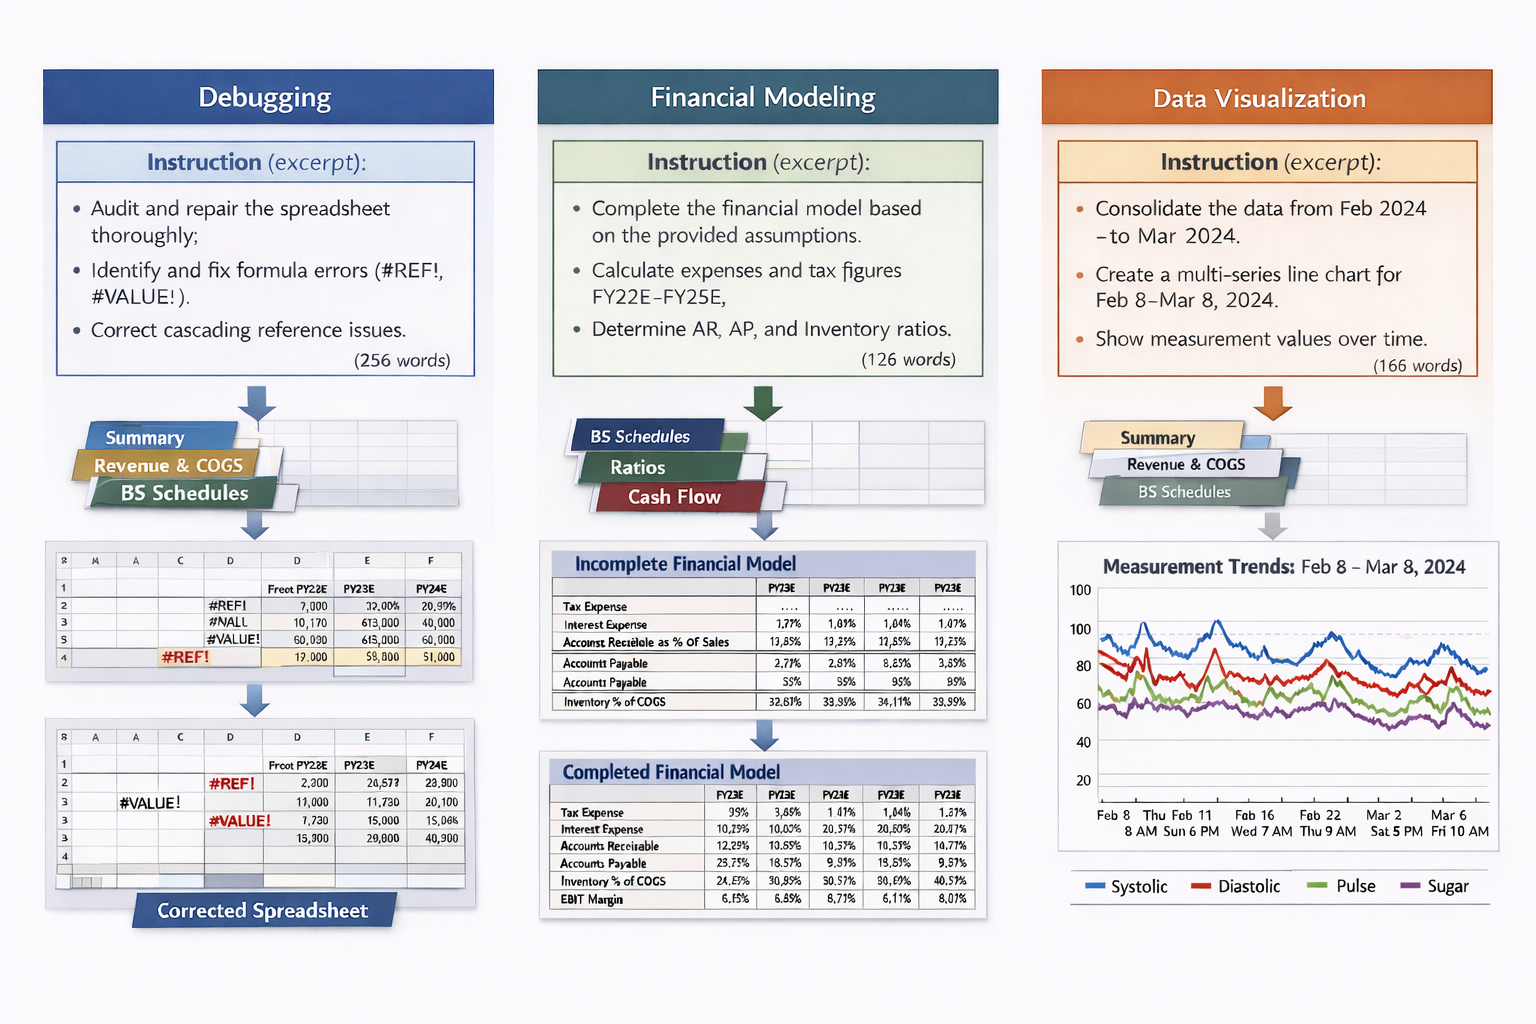
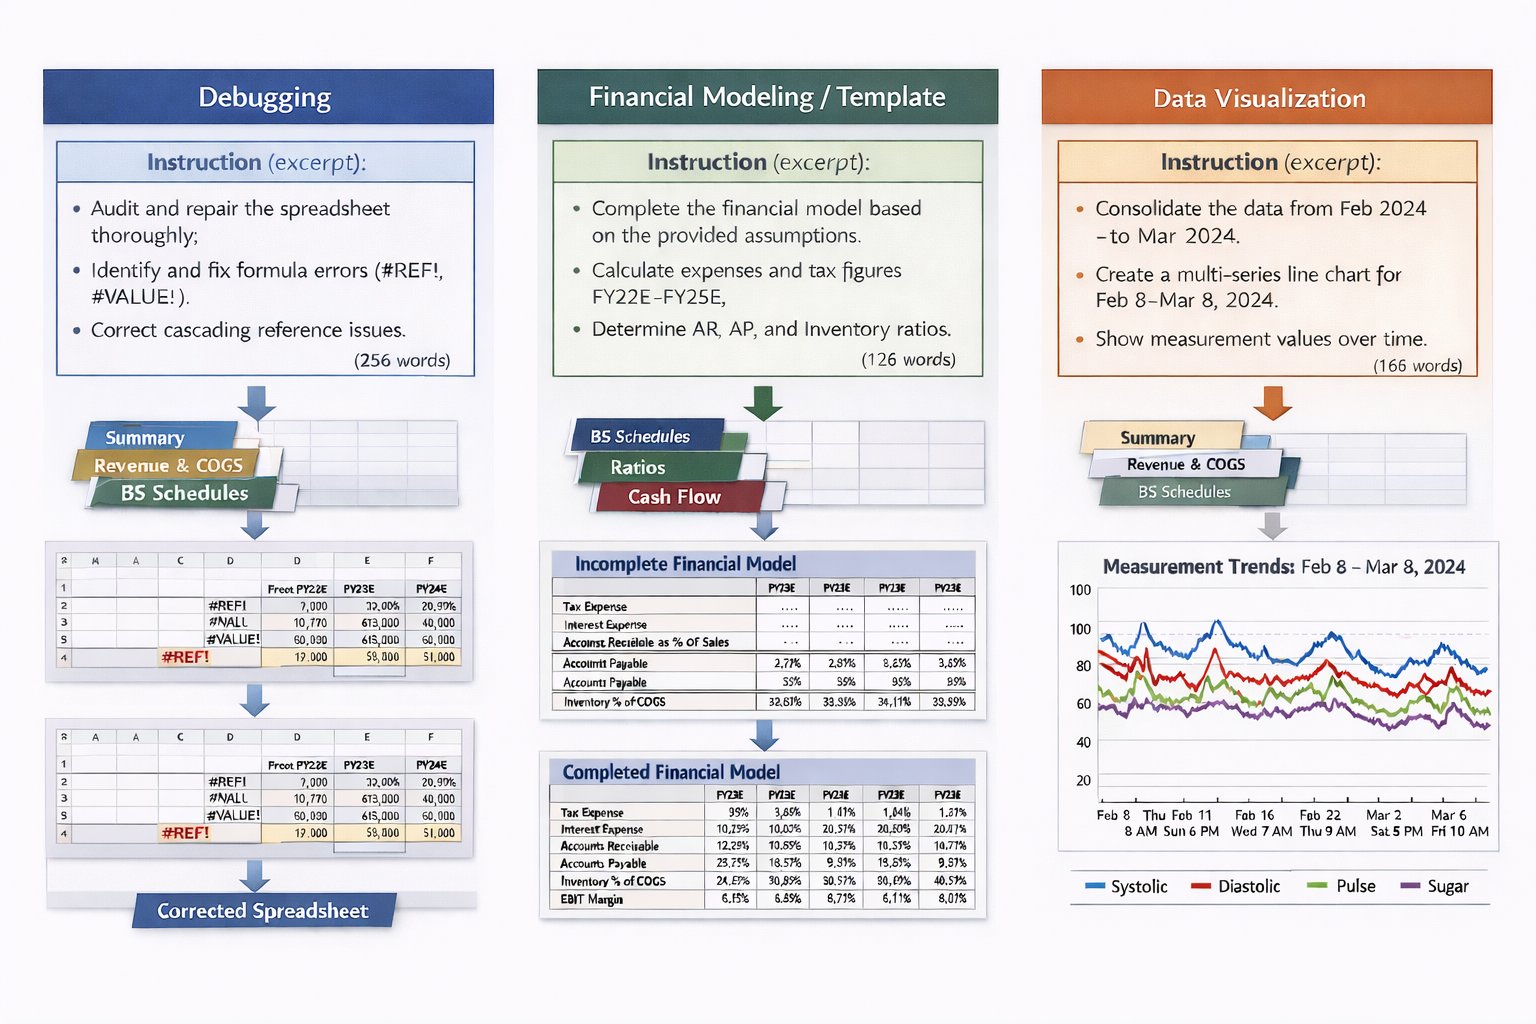
update website images and index page

Changed region(s): [[0.0312, 0.7188, 0.3125, 0.9062], [0.375, 0.0625, 0.6562, 0.125], [0.5, 0.5938, 0.625, 0.6562]]

diff --git a/index.html b/index.html
@@ -949,7 +949,7 @@
           <div class="pipeline-figure">
             <img src="static/images/ssb-v2.png" alt="SpreadsheetBench 2 Overview" style="max-width: 100%; height: auto; border-radius: 8px; box-shadow: 0 4px 12px rgba(0,0,0,0.08);">
             <figcaption>
-              <strong>Figure 1: </strong>Overview of SpreadsheetBench 2 task categories, including Debugging, Financial Modeling, and Visualization.
+              <strong>Figure 1: </strong>Overview of SpreadsheetBench 2 task categories, including Debugging, Financial Modeling, Template, and Visualization.
             </figcaption>
           </div>
 
@@ -965,14 +965,14 @@
             Tasks are organized into three primary categories that mirror the lifecycle of professional spreadsheet usage:
           </p>
           <ul>
-            <li><strong>Financial Modeling:</strong> Constructing structured spreadsheet artifacts including template completion and multi-step modeling scenarios.</li>
+            <li><strong>Financial Modeling/Template:</strong> Constructing structured spreadsheet artifacts including template completion and multi-step modeling scenarios.</li>
             <li><strong>Debugging:</strong> Identifying and correcting logical, structural, or reference errors in existing spreadsheets.</li>
             <li><strong>Visualization:</strong> Transforming tabular data into charts and pivot-based summaries for analysis and presentation.</li>
           </ul>
 
           <h2>Evaluation Metrics</h2>
           <p>
-            <strong>Financial Modeling & Debugging:</strong> A task is considered correct only when all required cell modifications are accurate and all unchanged cells remain unmodified. The final answer must exactly match the ground truth answer.<br>
+            <strong>Financial Modeling & Template & Debugging:</strong> A task is considered correct only when all required cell modifications are accurate and all unchanged cells remain unmodified. The final answer must exactly match the ground truth answer.<br>
             <strong>Visualization:</strong> Each task has a reference answer with a checklist of assertions. A Vision-Language Model (VLM) evaluates the generated chart image against each assertion, producing PASS/FAIL judgments. The chart evaluation score is computed as: Acc = Passed Assertions / Total Assertions. A score above 70 is considered correct.
           </p>
 
@@ -1036,7 +1036,7 @@
 
             <div class="v2-lib-examples" data-title="Example 2" style="display: none; text-align: center;">
               <p style="text-align: justify; color: #34495e; line-height: 1.5;">
-                Instruction: Complete the financial model based on the provided assumptions. Ensure that all formulas, references, and calculations are correct
+                Instruction: Please audit and fix this file thoroughly. Errors may include but are not limited to: formula logic errors or inconsistencies, hardcoded values that should be formulas, broken cell references, data validation issues, potential calculation errors, inconsistent formatting or naming conventions, best practice violations, and any other issues that could affect accuracy or maintainability.
               </p>
               <img src="static/images/v2-debugging.jpg" alt="Example 2" style="max-width: 100%; border-radius: 8px; box-shadow: 0 2px 8px rgba(0,0,0,0.1);">
               <p style="margin-top: 12px; font-weight: bold; color: var(--primary);">Example 2: Debugging.</p>
@@ -1045,9 +1045,9 @@
 
             <div class="v2-lib-examples" data-title="Example 3" style="display: none; text-align: center;">
               <p style="text-align: justify; color: #34495e; line-height: 1.5;">
-                Instruction: Create 2 Earnings Per Share charts using the provided dataset in the Surprise sheet (rows 50-71). The first chart is a multi-series combo chart shown by quarter. The primary Y-axis tracks EPS values and the secondary Y-axis tracks Price. Title the chart \"Quarterly Price Impact Analysis\" at the top center. Display 4 series: Differential (as overlay floating bars spanning from Mean to After Event for each period), After Event (line), Mean (Estimated Value) (markers only), and Price (line on secondary axis). The second chart is a diverging vertical column chart showing Price Impact (%) by quarter, titled \"Earnings Per Share: Actual vs. Estimated Performance\" at the top center. Both charts should display quarters from Q3 2020 to Q3 2025 on the X-axis.
+                Instruction: Create 2 Earnings Per Share charts using the provided dataset in the Surprise sheet (rows 50-71). The first chart is a multi-series combo chart shown by quarter. The primary Y-axis tracks EPS values and the secondary Y-axis tracks Price. Title the chart "Quarterly Price Impact Analysis" at the top center. Display 4 series: Differential (as overlay floating bars spanning from Mean to After Event for each period), After Event (line), Mean (Estimated Value) (markers only), and Price (line on secondary axis). The second chart is a diverging vertical column chart showing Price Impact (%) by quarter, titled "Earnings Per Share: Actual vs. Estimated Performance" at the top center. Both charts should display quarters from Q3 2020 to Q3 2025 on the X-axis.
               </p>
-              <img src="static/images/v2-Visualization.jpg" alt="Example 3" style="max-width: 100%; border-radius: 8px; box-shadow: 0 2px 8px rgba(0,0,0,0.1);">
+              <img src="static/images/v2-Visualization.png" alt="Example 3" style="max-width: 100%; border-radius: 8px; box-shadow: 0 2px 8px rgba(0,0,0,0.1);">
               <p style="margin-top: 12px; font-weight: bold; color: var(--primary);">Example 3: Visualization.</p>
               <br>
             </div>
@@ -1071,7 +1071,7 @@
       <div class="benchmark-intro-box">
         <p><strong>SpreadsheetBench</strong> evaluates large language model agents' capabilities in manipulating
           complex real-world spreadsheets (Version 1) and business spreadsheet workflows (Version 2). Visit the <a href="#" class="intro-link" onclick="showPage('v1'); return false;">V1 Overview</a> or <a href="#" class="intro-link" onclick="showPage('v2'); return false;">V2 Overview</a> page for benchmark details, research paper, code repository, and dataset downloads.</p>
-        <p>To <strong>submit your results</strong> to SpreadsheetBench, please contact spreadsheetbench@gmail.com and provide an API capable of generating your agent's results.</p>
+        <p>To <strong>submit your results</strong>, please contact spreadsheetbench@gmail.com or spreadsheetbench@aptura.ai, and provide an API capable of generating your agent's results.</p>
       </div>
 
       <div class="news-box">
@@ -1269,7 +1269,7 @@
             <div><span class="status-verified">Verified</span></div>
             <div class="score-cell" onclick="this.classList.toggle('open')">
               <div class="main-score">34.89% <span class="score-arrow">▼</span></div>
-              <div class="sub-scores"><span>Fin.Model:</span> 34.00%<br><span>Debug:</span> 12.00%<br><span>Visualization:</span> 62.50%</div>
+              <div class="sub-scores"><span>Template:</span> 52.58%<br><span>Fin.Model:</span> 34.00%<br><span>Debug:</span> 12.00%<br><span>Visualization:</span> 62.50%</div>
             </div>
             <div class="date">Mar 26, 2026</div>
             <a href="https://www.anthropic.com" class="external-link" target="_blank">Anthropic</a>
@@ -1281,7 +1281,7 @@
             <div><span class="status-verified">Verified</span></div>
             <div class="score-cell" onclick="this.classList.toggle('open')">
               <div class="main-score">26.79% <span class="score-arrow">▼</span></div>
-              <div class="sub-scores"><span>Fin.Model:</span> 33.00%<br><span>Debug:</span> 8.00%<br><span>Visualization:</span> 45.83%</div>
+              <div class="sub-scores"><span>Template:</span> 35.05%<br><span>Fin.Model:</span> 33.00%<br><span>Debug:</span> 8.00%<br><span>Visualization:</span> 45.83%</div>
             </div>
             <div class="date">Mar 26, 2026</div>
             <a href="https://www.openai.com" class="external-link" target="_blank">OpenAI</a>
@@ -1293,7 +1293,7 @@
             <div><span class="status-verified">Verified</span></div>
             <div class="score-cell" onclick="this.classList.toggle('open')">
               <div class="main-score">23.68% <span class="score-arrow">▼</span></div>
-              <div class="sub-scores"><span>Fin.Model:</span> 31.00%<br><span>Debug:</span> 7.00%<br><span>Visualization:</span> 41.67%</div>
+              <div class="sub-scores"><span>Template:</span> 28.87%<br><span>Fin.Model:</span> 31.00%<br><span>Debug:</span> 7.00%<br><span>Visualization:</span> 41.67%</div>
             </div>
             <div class="date">Mar 26, 2026</div>
             <a href="https://gemini.google.com/" class="external-link" target="_blank">Google</a>
@@ -1305,7 +1305,7 @@
             <div><span class="status-verified">Verified</span></div>
             <div class="score-cell" onclick="this.classList.toggle('open')">
               <div class="main-score">17.14% <span class="score-arrow">▼</span></div>
-              <div class="sub-scores"><span>Fin.Model:</span> 22.00%<br><span>Debug:</span> 7.00%<br><span>Visualization:</span> 37.50%</div>
+              <div class="sub-scores"><span>Template:</span> 17.53%<br><span>Fin.Model:</span> 22.00%<br><span>Debug:</span> 7.00%<br><span>Visualization:</span> 37.50%</div>
             </div>
             <div class="date">Mar 26, 2026</div>
             <a href="https://www.zhipuai.cn" class="external-link" target="_blank">Zhipu.AI</a>
@@ -1317,7 +1317,7 @@
             <div><span class="status-verified">Verified</span></div>
             <div class="score-cell" onclick="this.classList.toggle('open')">
               <div class="main-score">15.58% <span class="score-arrow">▼</span></div>
-              <div class="sub-scores"><span>Fin.Model:</span> 7.00%<br><span>Debug:</span> 10.00%<br><span>Visualization:</span> 33.33%</div>
+              <div class="sub-scores"><span>Template:</span> 25.77%<br><span>Fin.Model:</span> 7.00%<br><span>Debug:</span> 10.00%<br><span>Visualization:</span> 33.33%</div>
             </div>
             <div class="date">Mar 26, 2026</div>
             <a href="https://www.deepseek.com" class="external-link" target="_blank">DeepSeek</a>
@@ -1329,7 +1329,7 @@
             <div><span class="status-verified">Verified</span></div>
             <div class="score-cell" onclick="this.classList.toggle('open')">
               <div class="main-score">14.64% <span class="score-arrow">▼</span></div>
-              <div class="sub-scores"><span>Fin.Model:</span> 15.00%<br><span>Debug:</span> 4.00%<br><span>Visualization:</span> 41.67%</div>
+              <div class="sub-scores"><span>Template:</span> 18.56%<br><span>Fin.Model:</span> 15.00%<br><span>Debug:</span> 4.00%<br><span>Visualization:</span> 41.67%</div>
             </div>
             <div class="date">Mar 26, 2026</div>
             <a href="https://www.moonshot.cn" class="external-link" target="_blank">Moonshot</a>
@@ -1341,7 +1341,7 @@
             <div><span class="status-verified">Verified</span></div>
             <div class="score-cell" onclick="this.classList.toggle('open')">
               <div class="main-score">11.22% <span class="score-arrow">▼</span></div>
-              <div class="sub-scores"><span>Fin.Model:</span> 10.00%<br><span>Debug:</span> 3.00%<br><span>Visualization:</span> 25.00%</div>
+              <div class="sub-scores"><span>Template:</span> 17.53%<br><span>Fin.Model:</span> 10.00%<br><span>Debug:</span> 3.00%<br><span>Visualization:</span> 25.00%</div>
             </div>
             <div class="date">Mar 26, 2026</div>
             <a href="https://qwen.ai/" class="external-link" target="_blank">Alibaba</a>
@@ -1353,7 +1353,7 @@
             <div><span class="status-verified">Verified</span></div>
             <div class="score-cell" onclick="this.classList.toggle('open')">
               <div class="main-score">7.17% <span class="score-arrow">▼</span></div>
-              <div class="sub-scores"><span>Fin.Model:</span> 8.00%<br><span>Debug:</span> 4.00%<br><span>Visualization:</span> 16.67%</div>
+              <div class="sub-scores"><span>Template:</span> 7.22%<br><span>Fin.Model:</span> 8.00%<br><span>Debug:</span> 4.00%<br><span>Visualization:</span> 16.67%</div>
             </div>
             <div class="date">Mar 26, 2026</div>
             <a href="https://www.minimax.io" class="external-link" target="_blank">MiniMax</a>
